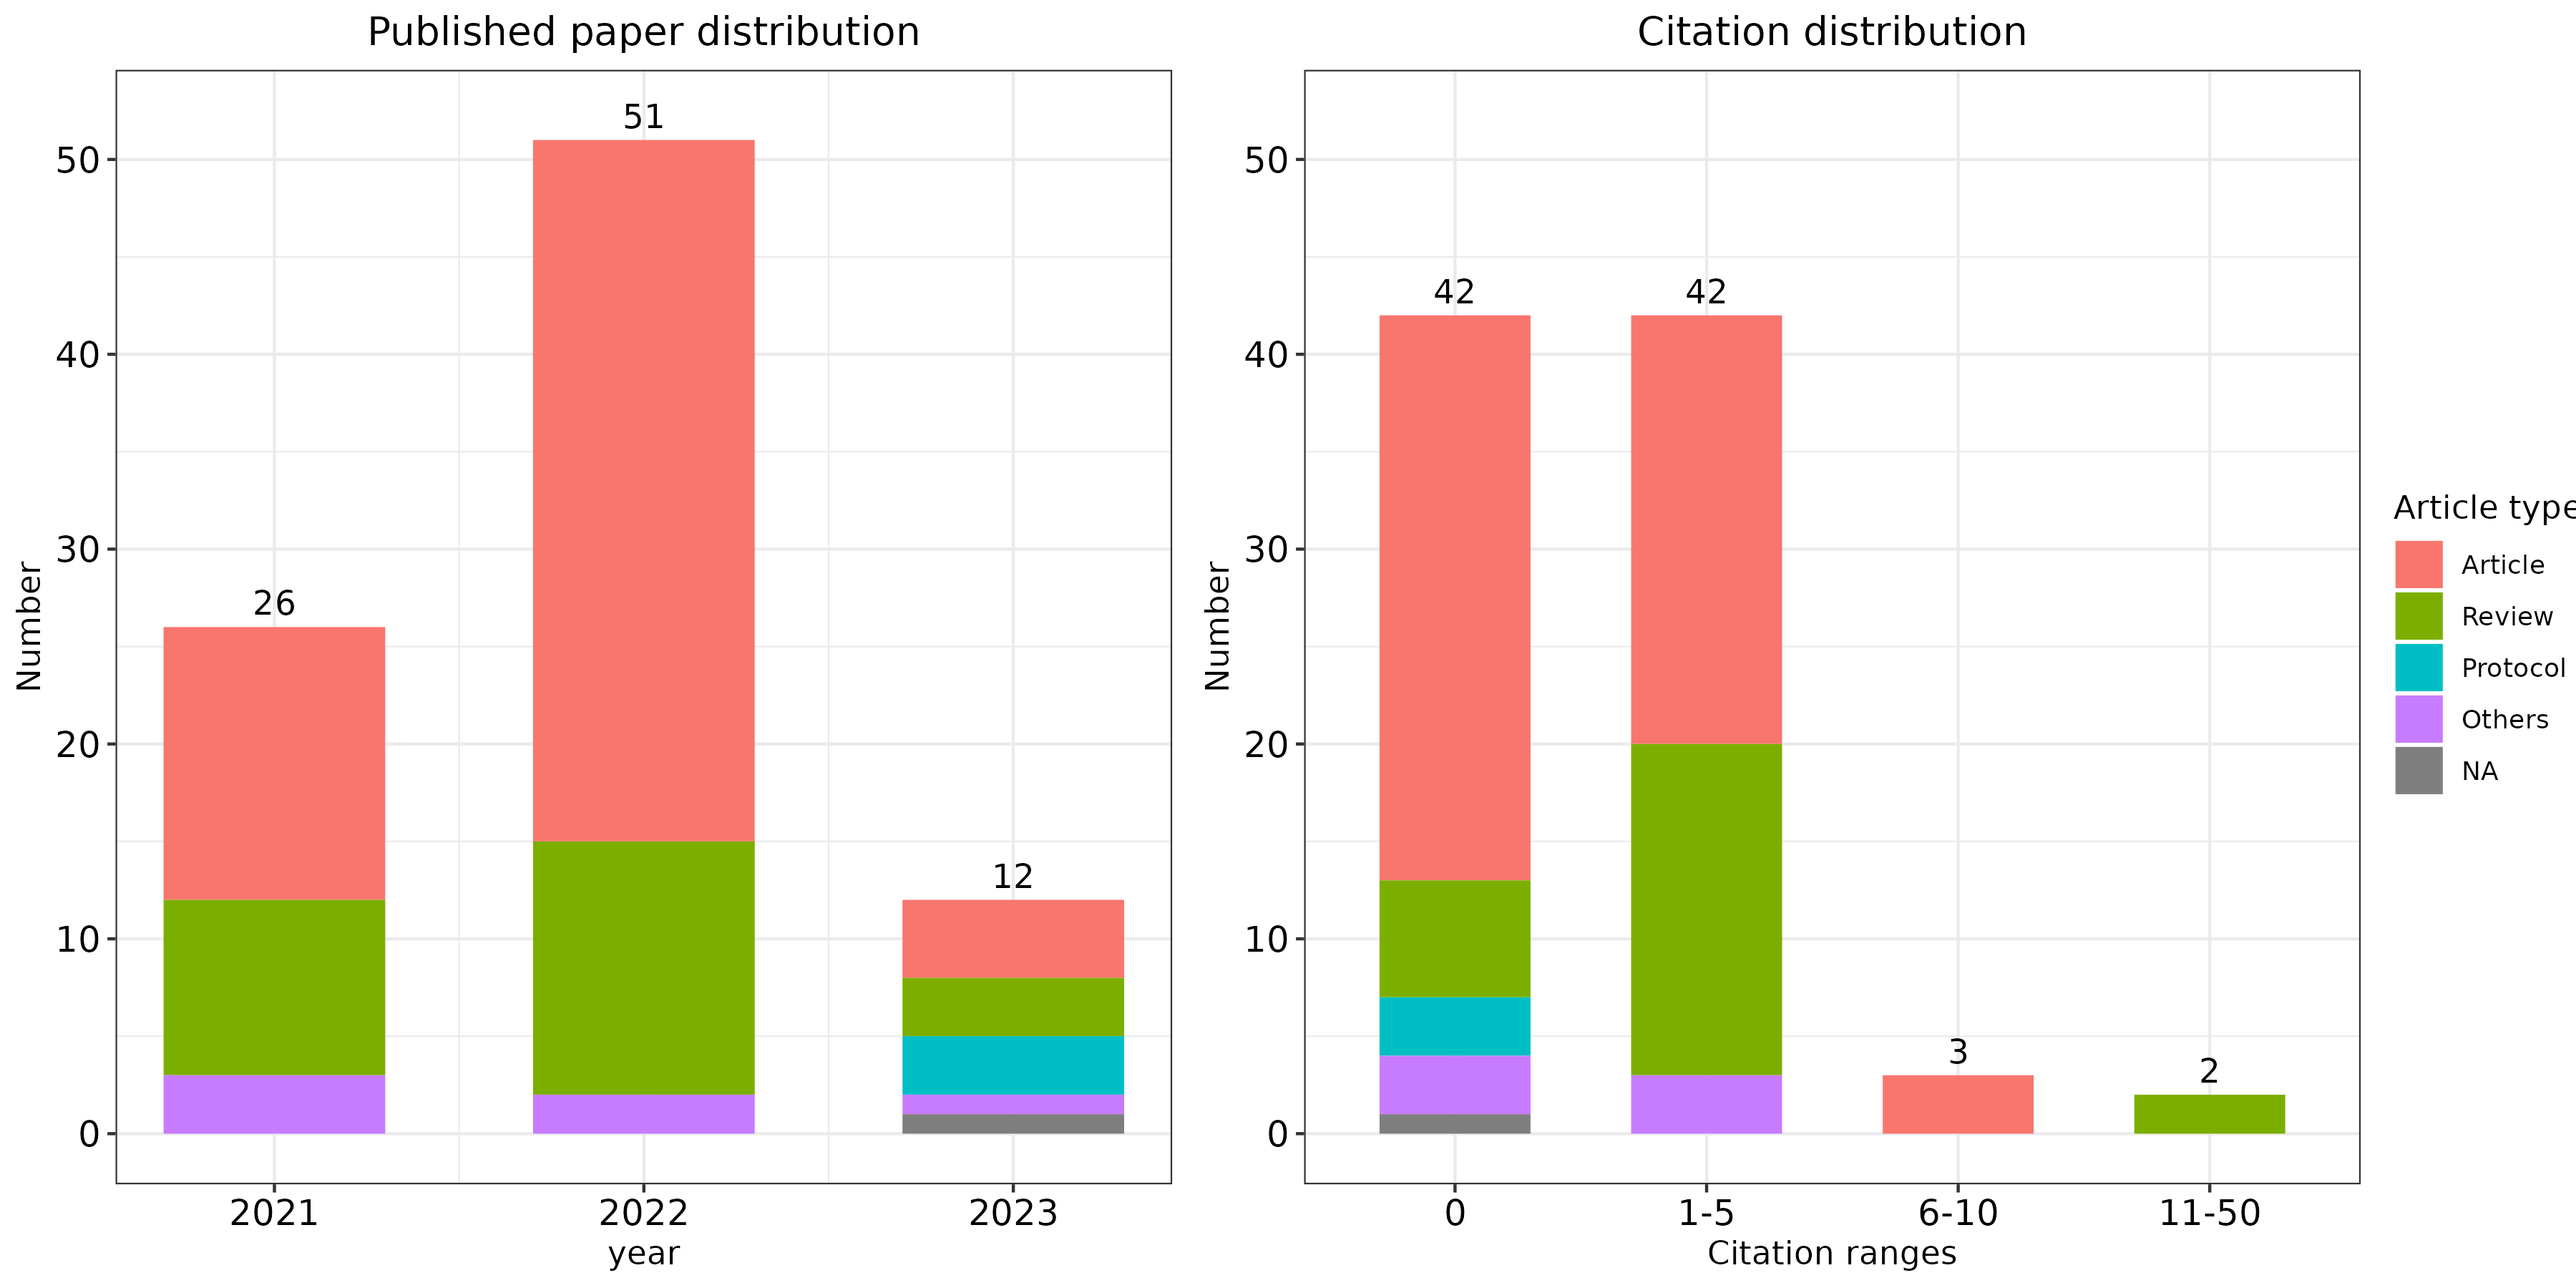
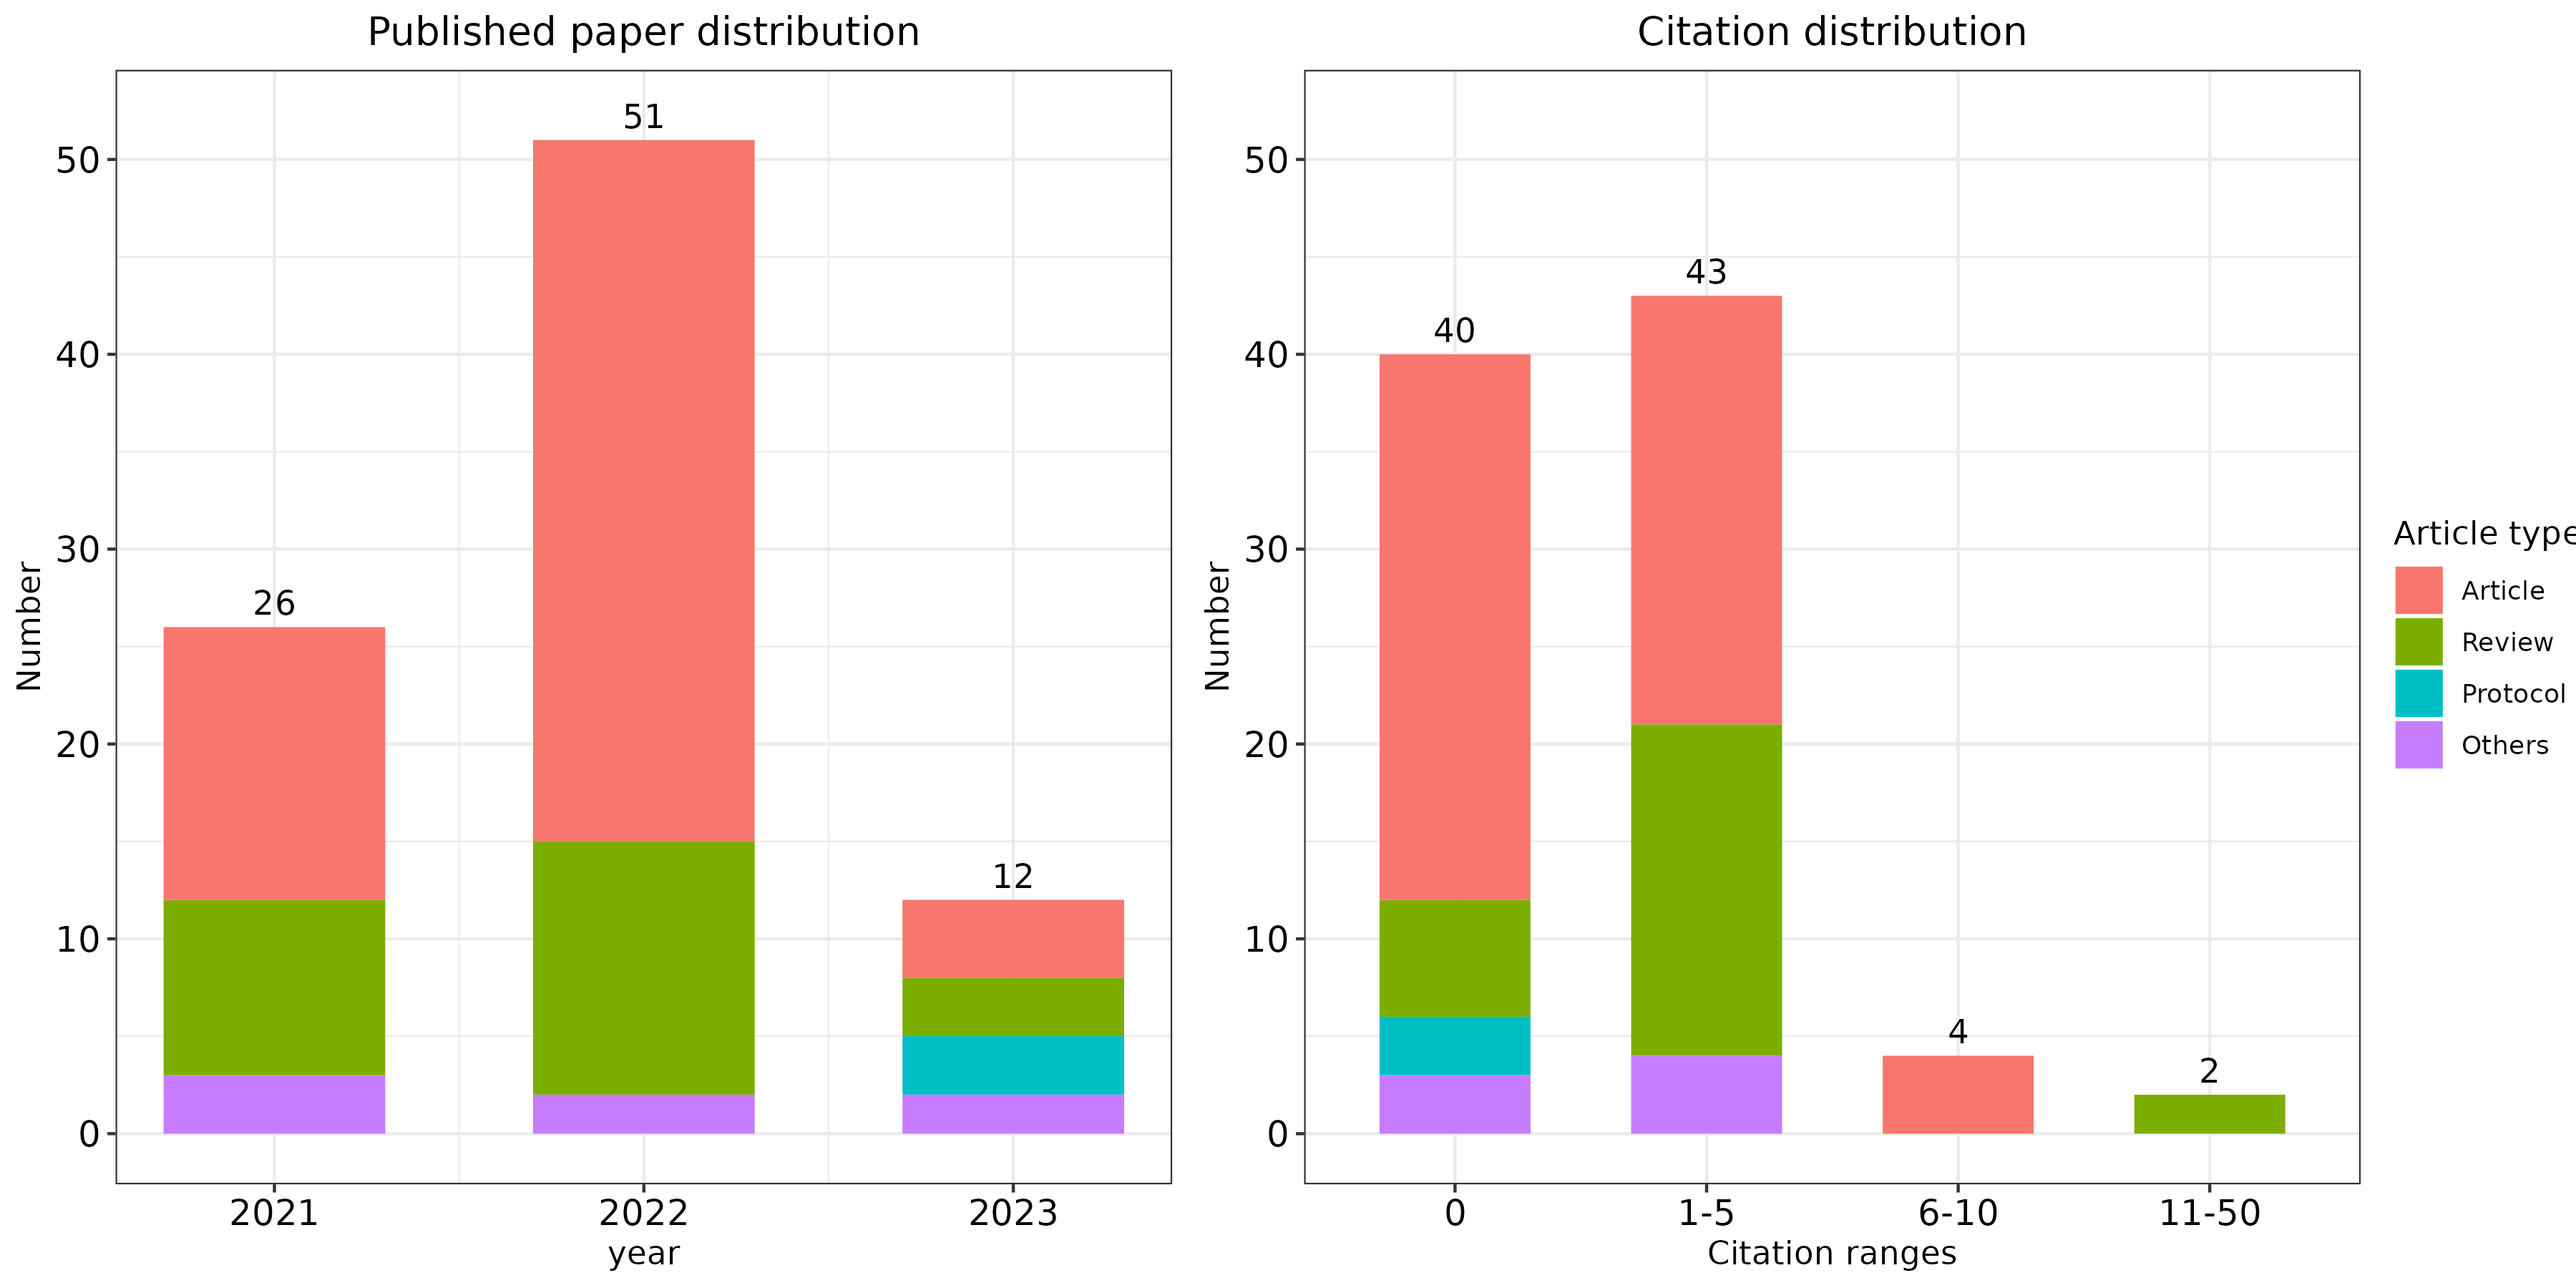
20230402

diff --git a/weekly_online_paper_metrices/README.md b/weekly_online_paper_metrices/README.md
@@ -53,6 +53,16 @@
    <td style="text-align:center;"> 1 </td>
   </tr>
   <tr>
+   <td style="text-align:center;"> <a href="http://link.springer.com/article/10.1007/s43657-021-00026-x" style="     " >Systematic Genome-Wide Profiles Reveal Alternative ...</a> </td>
+   <td style="text-align:center;"> Article </td>
+   <td style="text-align:center;"> 2021-10-29 </td>
+   <td style="text-align:center;"> 1736 </td>
+   <td style="text-align:center;"> 7 </td>
+   <td style="text-align:center;"> 0 </td>
+   <td style="text-align:center;"> 1 </td>
+   <td style="text-align:center;"> 6 </td>
+  </tr>
+  <tr>
    <td style="text-align:center;"> <a href="http://link.springer.com/article/10.1007/s43657-021-00025-y" style="     " >Strided Self-Supervised Low-Dose CT Denoising ...</a> </td>
    <td style="text-align:center;"> Article </td>
    <td style="text-align:center;"> 2021-10-26 </td>
@@ -76,7 +86,7 @@
    <td style="text-align:center;"> <a href="http://link.springer.com/article/10.1007/s43657-021-00020-3" style="     " >Molecular Phenomic Approaches to Deconvolving ...</a> </td>
    <td style="text-align:center;"> Review </td>
    <td style="text-align:center;"> 2021-07-22 </td>
-   <td style="text-align:center;"> 3174 </td>
+   <td style="text-align:center;"> 3180 </td>
    <td style="text-align:center;"> 5 </td>
    <td style="text-align:center;"> 37 </td>
    <td style="text-align:center;"> 1 </td>
@@ -90,6 +100,16 @@
    <td style="text-align:center;"> 5 </td>
    <td style="text-align:center;"> 0 </td>
    <td style="text-align:center;"> 1 </td>
+   <td style="text-align:center;"> 3 </td>
+  </tr>
+  <tr>
+   <td style="text-align:center;"> <a href="http://link.springer.com/article/10.1007/s43657-021-00037-8" style="     " >Why Do We Care More ...</a> </td>
+   <td style="text-align:center;"> Commentary </td>
+   <td style="text-align:center;"> 2022-01-28 </td>
+   <td style="text-align:center;"> 2623 </td>
+   <td style="text-align:center;"> 4 </td>
+   <td style="text-align:center;"> 20 </td>
+   <td style="text-align:center;"> 2 </td>
    <td style="text-align:center;"> 3 </td>
   </tr>
   <tr>
@@ -446,7 +466,7 @@
    <td style="text-align:center;"> <a href="http://link.springer.com/article/10.1007/s43657-021-00018-x" style="     " >Recommendation for Cardiac Magnetic Resonance ...</a> </td>
    <td style="text-align:center;"> Review </td>
    <td style="text-align:center;"> 2021-07-28 </td>
-   <td style="text-align:center;"> 2698 </td>
+   <td style="text-align:center;"> 2701 </td>
    <td style="text-align:center;"> 1 </td>
    <td style="text-align:center;"> 0 </td>
    <td style="text-align:center;"> 1 </td>
@@ -863,16 +883,6 @@
    <td style="text-align:center;"> 1 </td>
   </tr>
   <tr>
-   <td style="text-align:center;"> <a href="http://link.springer.com/article/10.1007/s43657-021-00037-8" style="     " >Why Do We Care More ...</a> </td>
-   <td style="text-align:center;"> Commentary </td>
-   <td style="text-align:center;"> 2022-01-28 </td>
-   <td style="text-align:center;"> 0 </td>
-   <td style="text-align:center;"> 0 </td>
-   <td style="text-align:center;"> 0 </td>
-   <td style="text-align:center;"> 2 </td>
-   <td style="text-align:center;"> 3 </td>
-  </tr>
-  <tr>
    <td style="text-align:center;"> <a href="http://link.springer.com/article/10.1007/s43657-021-00031-0" style="     " >Mapping Cell Phenomics with Multiparametric ...</a> </td>
    <td style="text-align:center;"> Review </td>
    <td style="text-align:center;"> 2022-01-09 </td>
@@ -891,16 +901,6 @@
    <td style="text-align:center;"> 0 </td>
    <td style="text-align:center;"> 2 </td>
    <td style="text-align:center;"> 1 </td>
-  </tr>
-  <tr>
-   <td style="text-align:center;"> <a href="http://link.springer.com/article/10.1007/s43657-021-00026-x" style="     " >Systematic Genome-Wide Profiles Reveal Alternative ...</a> </td>
-   <td style="text-align:center;"> Article </td>
-   <td style="text-align:center;"> 2021-10-29 </td>
-   <td style="text-align:center;"> 0 </td>
-   <td style="text-align:center;"> 0 </td>
-   <td style="text-align:center;"> 0 </td>
-   <td style="text-align:center;"> 1 </td>
-   <td style="text-align:center;"> 6 </td>
   </tr>
 </tbody>
 </table>
